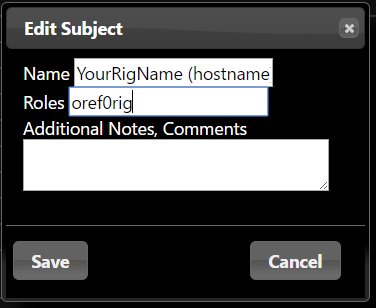
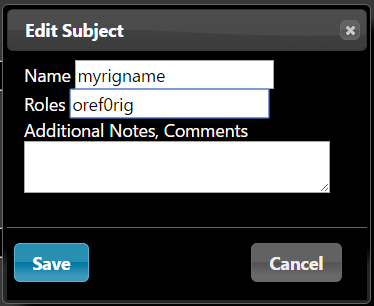
improve docs
thanks @ceben80 for suggestions and questions

Changed region(s): [[0.0, 0.0, 1.0, 1.0]]

diff --git a/docs/docs/walkthrough/phase-1/nightscout-setup.md b/docs/docs/walkthrough/phase-1/nightscout-setup.md
@@ -22,7 +22,7 @@ with another person, it will be helpful for you to visualize what the loop is
 doing; what it's been doing; plus generate helpful reports for understanding
 your data, customized watchfaces with your OpenAPS data, and integration with IFTTT.  You can read more about the latest Nightscout features [here](http://www.nightscout.info/wiki/welcome/website-features/0-9-features).
 
-## Nightscout Setup
+## Nightscout Setup with Heroku
 
 * If you plan to use Nightscout with OpenAPS, we recommend using Heroku, as OpenAPS can reach the usage limits of the free Azure plan and cause it to shut down for hours or days. If you end up needing a paid tier, the $7/mo Heroku plan is also much cheaper than the first paid tier of Azure.  Currently, the only added benefit to choosing the $7/mo Heroku plan vs the free Heroku plan is a section showing site use metrics for performance (such as response time).  This has limited benefit to the average OpenAPS user.  **In short, Heroku is the free and OpenAPS-friendly option for NS hosting.**
 
@@ -236,18 +236,27 @@ If you are using the Nightscout Bridge to bring in CGM data from Dexcom servers 
 
 ![NS Settings](../phase-1/img/settings_ns.jpg)
 
-### It's not working - I'm missing data in Nightscout? 
-
-If you are using a "test pump" that has not received sufficient data in some time, Nightscout pills will NOT be displayed onscreen. Nightscout may also not work if it hasn't had CGM data in a while - so if you haven't been using a CGM and uploading CGM data to Nightscout for the past few days, the site may be empty as well.  If this happens, simply use this pump in tandem with a CGM so glucose values are recorded and eventually uploaded to Nightscout.  Once sufficient data has been collected, (and OpenAPS plugin is enabled and saved), the OpenAPS pills should appear automatically. Medtronic CGM users may also [need to do this to get their CGM data flowing into Nightscout after a gap in uploading data](http://openaps.readthedocs.io/en/dev/docs/walkthrough/phase-1/offline-looping-and-monitoring.html#note-about-recovery-from-camping-mode-offline-mode-for-medtronic-cgm-users).
+## Nightscout Migrations
 
 ### Switching from API_SECRET to token based authentication for your rig
 
-Starting with oref0 0.5.0 you can secure your Nightscout.
+You can secure your Nightscout and CGM data with 
+[token based authentication] (http://www.nightscout.info/wiki/welcome/website-features/0-9-features/authentication-roles
+. This requires Nightscout 0.9 (Grilled Cheese) and oref0 0.5.0 or later.
 
-Change the following environment variables of your Nightscout:
-- `AUTH_DEFAULT_ROLES` from `readable` to `denied`
+This has the following advantages:
+- You can deny public access to your Nightscout. 
+- Each rig uses it's own security token to authenticate to Nightscout.
+- With the old `API_SECRET` authentication all the rigs had all the privileges to your Nightscout (similar to root or Administrator users).
+- The `API_SECRET` method for authentication rigs/devices is deprecated in Nightscout, and token based authentication is the preferred way.
+- In case you loose a rig or it gets stolen you can deny access to Nightscout for that one rig. Otherwise you need to change your API_SECRET and change all the other rigs.
 
-Visit https://yournightscout/admin/
+You can migrate each rig individual from `API_SECRET` authentication to token based authentication.
+If you want to secure your Nightscout and CGM data, then all rigs need to have oref0 version 0.5.0+ and all be configured with token based authentication.
+
+Here are the steps you need to follow:
+
+1. Visit https://yournightscout/admin/
 - Add a new Role
 
 Name: `oref0rig`
@@ -256,13 +265,50 @@ Permissions: `api:devicestatus:create, api:devicestatus:read, api:entries:create
 
 ![AddRole](../phase-1/img/role-oref0rig.png)
 
-- Add a new Subject
+2. Add a new Subject
 
-Name: the name of your rig (same as the hostname of your rig)
+Name: the name of your rig (same as the hostname of your rig). Note: Nightscout will shorten the name to 10 characters in your accesstoken, e.g. `myedisonhostname` becomes `myedisonho-0dccda4ae591e763`
 
 Roles: `oref0rig`
 
 ![AddSubject](../phase-1/img/subject-oref0rig.png)
+
+Press Save button.
+
+In the Subject - People, Device etc. view you'll see the accesstoken for your rig, e.g. `myrigname-25c914bdbc596ea3`
+
+
+3. You need your rig to use the token based authentication token. This can be done in three different ways:
+
+- Using the `oref0-setup.sh` interactive setup. Enter the subjectname and password . Example:
+```
+Are you using Nightscout? If not, press enter.
+If so, what is your Nightscout host? (i.e. https://mynightscout.herokuapp.com)? https://mynightscout.herokuapp.com
+Ok, https://mynightscout.herokuapp.com it is.
+
+Starting with oref 0.5.0 you can use token based authentication to Nightscout. This is preferred and makes it possible to deny anonymous access to your Nightscout instance. It's more secure than using your API_SECRET. Do you want to use token based authentication [Y]/n?y
+What Nightscout access token (i.e. subjectname-hashof16characters) do you want to use for this rig? myrigname-25c914bdbc596ea3
+```
+
+- Using the `oref0-setup` or `oref0-runagain.sh` command line, use `--api-secret=token=myrigname-25c914bdbc596ea3`. Don't forget to start with `token=`.
+
+- Change the token in `ns.ini`. It's the third argument of the the `args=` line, e.g.
+```
+[device "ns"]
+fields = oper
+cmd = nightscout
+args = ns https://mynightscout.herokuapp.com token=myrigname-25c914bdbc596ea3
+```
+
+4. Test the rig, e.g. by running `openaps upload` or `openaps upload-ns-status`. You'll see the update in openaps pill in Nightscout.
+
+5. When all the rigs are 0.5.0 and are using token based authentication, you can change the environment variables of your Nightscout:
+- `AUTH_DEFAULT_ROLES` from `readable devicestatus-upload` to `denied`. If you don't care about your CGM data being public, you can also set `AUTH_DEFAULT_ROLES` to `readable`, but this is not recommended.
+
+Important:
+- Just like keeping your pump serial number and API_SECRET for yourself, you should not post your authentication token `token=myrigname-25c914bdbc596ea3` on the internet
+- The authentication is also stored in your `crontab`, as `API_SECRET=token=myrigname-25c914bdbc596ea3`
+- You must always secure your Nightscout site with secure http (https), so don't use http://mynightscout.herokuapp.com but always use https://mynightscout.herokuapp.com 
 
 ### Switching from Azure to Heroku
 
@@ -274,6 +320,11 @@ Roles: `oref0rig`
 
 ![Deploy branch](../phase-1/img/deploy_branch.jpg)
 
+## Nightscout Troubleshooting and FAQ's 
+
+### It's not working - I'm missing data in Nightscout? 
+
+If you are using a "test pump" that has not received sufficient data in some time, Nightscout pills will NOT be displayed onscreen. Nightscout may also not work if it hasn't had CGM data in a while - so if you haven't been using a CGM and uploading CGM data to Nightscout for the past few days, the site may be empty as well.  If this happens, simply use this pump in tandem with a CGM so glucose values are recorded and eventually uploaded to Nightscout.  Once sufficient data has been collected, (and OpenAPS plugin is enabled and saved), the OpenAPS pills should appear automatically. Medtronic CGM users may also [need to do this to get their CGM data flowing into Nightscout after a gap in uploading data](http://openaps.readthedocs.io/en/dev/docs/walkthrough/phase-1/offline-looping-and-monitoring.html#note-about-recovery-from-camping-mode-offline-mode-for-medtronic-cgm-users).
 
 ### A Note about Nightscout's COB Pill
 
